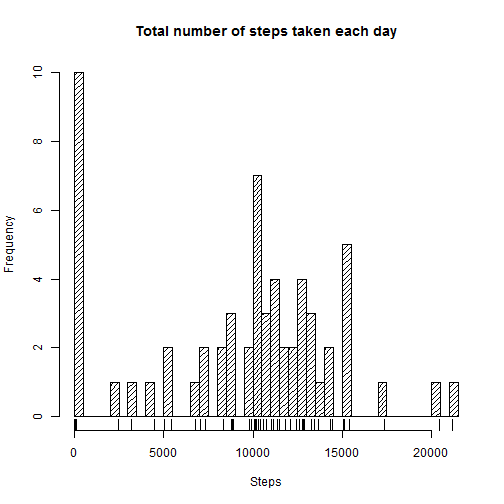
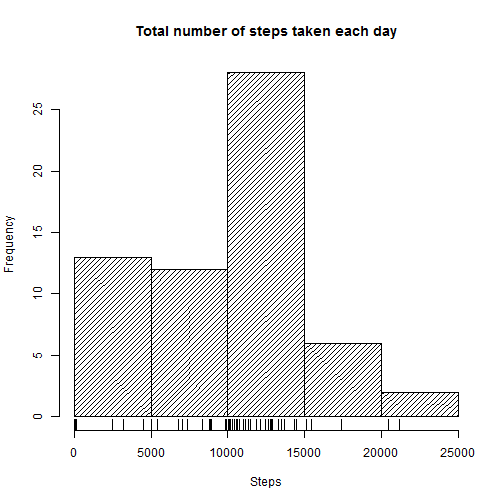
Adding final version
Adding PA1_template.Rmd, PA1_template.md, PA1_template.html, and the figure directory

diff --git a/PA1_template.html b/PA1_template.html
@@ -246,11 +246,11 @@ str(activity)
 <li>Then we make a histogram of the total number of steps taken each day</li>
 </ul>
 
-<pre><code class="r">hist(TotalStepsPerDay, breaks=50, density=20, main=&quot;Total number of steps taken each day&quot;, xlab=&quot;Steps&quot;)
+<pre><code class="r">hist(TotalStepsPerDay, density=20, main=&quot;Total number of steps taken each day&quot;, xlab=&quot;Steps&quot;)
 rug(TotalStepsPerDay)
 </code></pre>
 
[2 lines of base64/hex data omitted]
 
 <ul>
 <li>And we calculate the <strong>mean</strong> and <strong>median</strong> of the total number of steps taken per day</li>
@@ -378,11 +378,11 @@ str(tidy.activity)
 </ul>
 
 <pre><code class="r">TotalStepsPerDay2 &lt;- with(tidy.activity, tapply(steps, date, sum, na.rm=TRUE))
-hist(TotalStepsPerDay2, breaks=50, density=20, main=&quot;Total number of steps taken each day (without missing values)&quot;, xlab=&quot;Steps&quot;)
+hist(TotalStepsPerDay2, density=20, main=&quot;Total number of steps taken each day (without missing values)&quot;, xlab=&quot;Steps&quot;)
 rug(TotalStepsPerDay2)
 </code></pre>
 
[2 lines of base64/hex data omitted]
 
 <ul>
 <li>Calculate mean and median total number of steps taken per day</li>

diff --git a/PA1_template.md b/PA1_template.md
@@ -60,7 +60,7 @@ TotalStepsPerDay <- with(activity, tapply(steps, date, sum, na.rm=TRUE))
 
 
 ```r
-hist(TotalStepsPerDay, breaks=50, density=20, main="Total number of steps taken each day", xlab="Steps")
+hist(TotalStepsPerDay, density=20, main="Total number of steps taken each day", xlab="Steps")
 rug(TotalStepsPerDay)
 ```
 
@@ -203,7 +203,7 @@ head(tidy.activity)
 
 ```r
 TotalStepsPerDay2 <- with(tidy.activity, tapply(steps, date, sum, na.rm=TRUE))
-hist(TotalStepsPerDay2, breaks=50, density=20, main="Total number of steps taken each day (without missing values)", xlab="Steps")
+hist(TotalStepsPerDay2, density=20, main="Total number of steps taken each day (without missing values)", xlab="Steps")
 rug(TotalStepsPerDay2)
 ```
 
